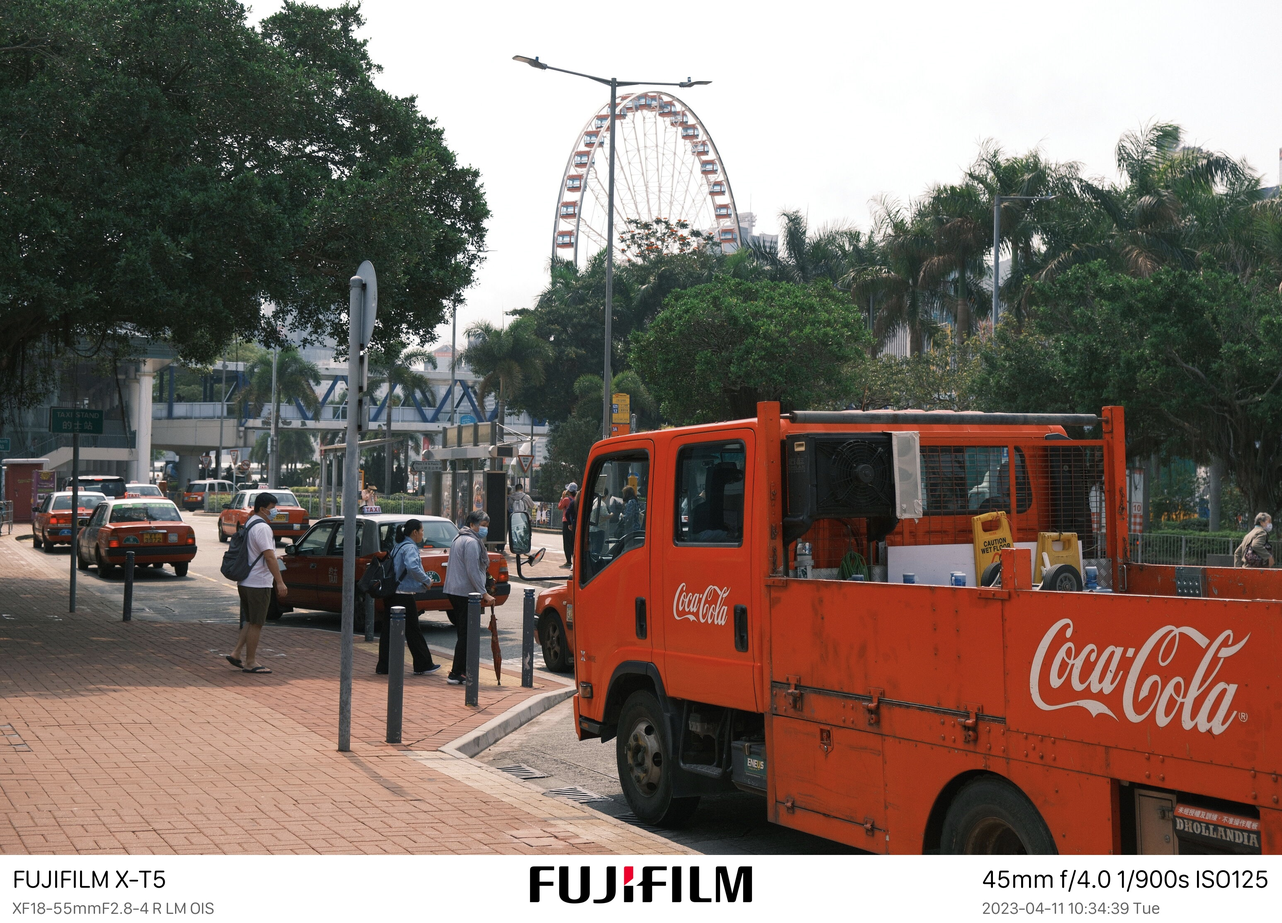
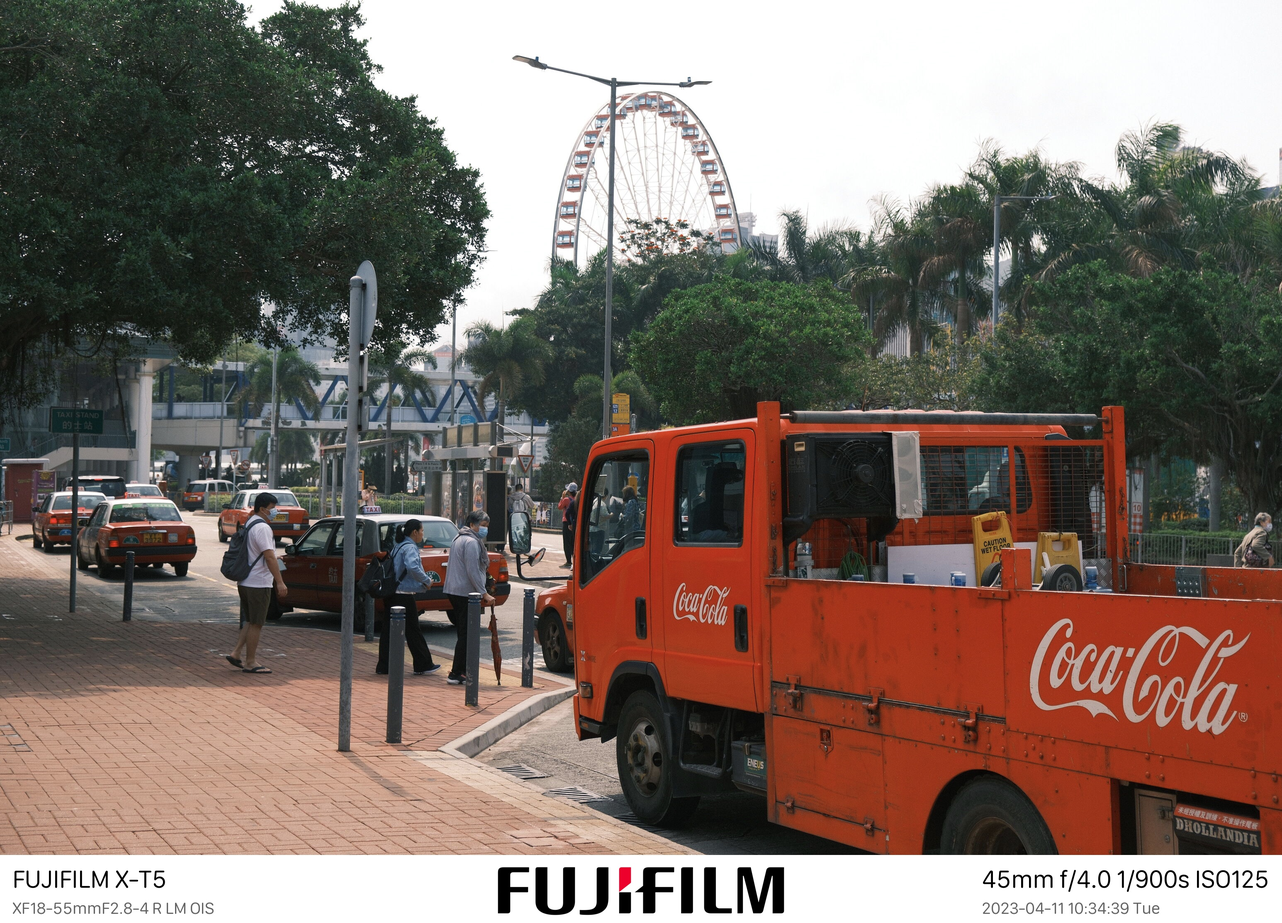
feat: add filmmode info

Changed region(s): [[0.3727, 0.9303, 0.6212, 0.9924]]

diff --git a/main.py b/main.py
@@ -2,6 +2,7 @@ from PIL import Image, ImageFont, ImageDraw, ImageOps
 from PIL.ExifTags import TAGS, GPSTAGS, IFD
 from datetime import datetime
 from pathlib import Path
+import exifread
 
 def get_exif_from_img(image_path):
     exif_result = {}
@@ -26,6 +27,38 @@ def get_exif_from_img(image_path):
         except KeyError:
             pass
     return exif_result
+
+
+def get_fuji_filmmode(image_path):
+    # see https://exiftool.org/TagNames/FujiFilm.html
+    with open(image_path, 'rb') as f:
+        tags = exifread.process_file(f)
+    filmmode = tags.get('MakerNote Tag 0x1401')
+    if filmmode is None:
+        return None
+    else:
+        filmmode = int(f'{filmmode}')
+        match filmmode:
+            case 0:
+                return 'Standard (Provia)'
+            case 512:
+                return 'Velvia'
+            case 1024:
+                return 'Velvia'
+            case 1280:
+                return 'Pro Neg. Std'
+            case 1281:
+                return 'Pro Neg. Hi'
+            case 1536:
+                return 'Classic Chrome'
+            case 1792:
+                return 'Eterna'
+            case 2048:
+                return 'Classic Negative'
+            case 2304:
+                return 'Bleach Bypass'
+            case 2560:
+                return 'Nostalgic Neg'
 
 def add_border_to_image(image_path, output_path):
     # 读取图片
@@ -53,10 +86,11 @@ def add_border_to_image(image_path, output_path):
         shutter_speed = str(shutter_speed) if shutter_speed >= 1 else f"1/{int(1/shutter_speed)}"
 
     lens = exif_data.get('LensModel')
-    film_simulation = exif_data.get('FilmMode')
+    film_mode = get_fuji_filmmode(image_path)
+
     focal_length = exif_data.get('FocalLengthIn35mmFilm')
     f_number = exif_data.get('FNumber')
-    
+
 
     # 创建一个新的图片，添加边框
     border_left = 0.01
@@ -97,16 +131,17 @@ def add_border_to_image(image_path, output_path):
 
         camera_logo = Image.open(f"logos/{camera_make.lower()}.jpg")
         logo_aspect_ratio = camera_logo.width / camera_logo.height
-        # 调整机型logo图片的大小，高度为 6% * 原始图片高度，宽度为比例
-        logo_new_height = int(image.width * 0.035)
+        # 调整机型logo图片的大小，高度为 3% * 原始图片高度，宽度为比例
+        logo_new_height = int(image.width * 0.045)
         logo_new_width = int(logo_new_height * logo_aspect_ratio)
         camera_logo = camera_logo.resize((logo_new_width, logo_new_height))
-
         new_image.paste(camera_logo, (int((image.width - camera_logo.width) / 2) , text_position[1] ))  # 将 logo 图片粘贴在边框内
- 
-    
+        # 添加胶片模拟
+       
     if focal_length is not None:
         iso_aperture_text = f"{focal_length}mm f/{f_number} {shutter_speed}s ISO{iso}"
+        if film_mode is not None:
+            iso_aperture_text = f"{film_mode} {iso_aperture_text}"
         iso_text_size = new_image_draw.textbbox(xy=(0, 0), text=iso_aperture_text, font=text_font['main'])
         # print(iso_text_size) iso_text_size[2] 是宽度
         # 计算文本框的位置
